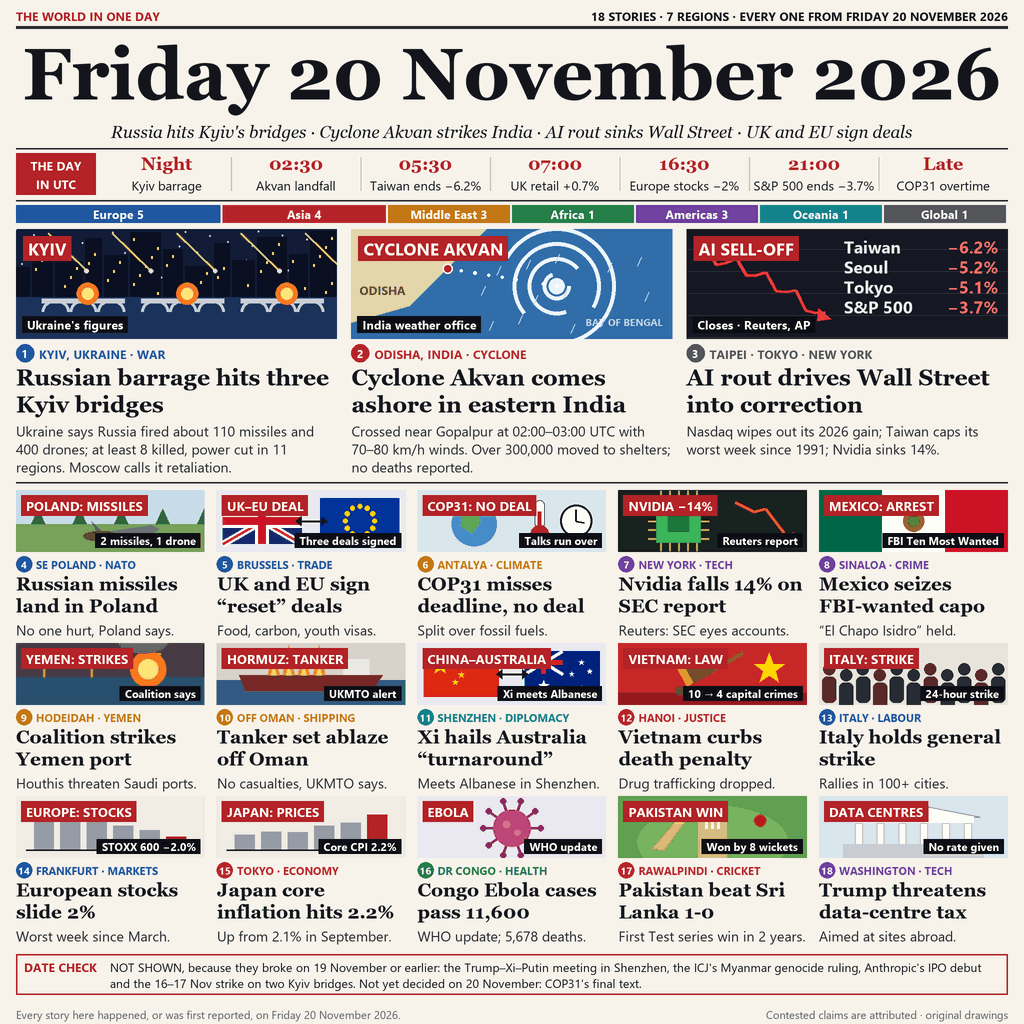
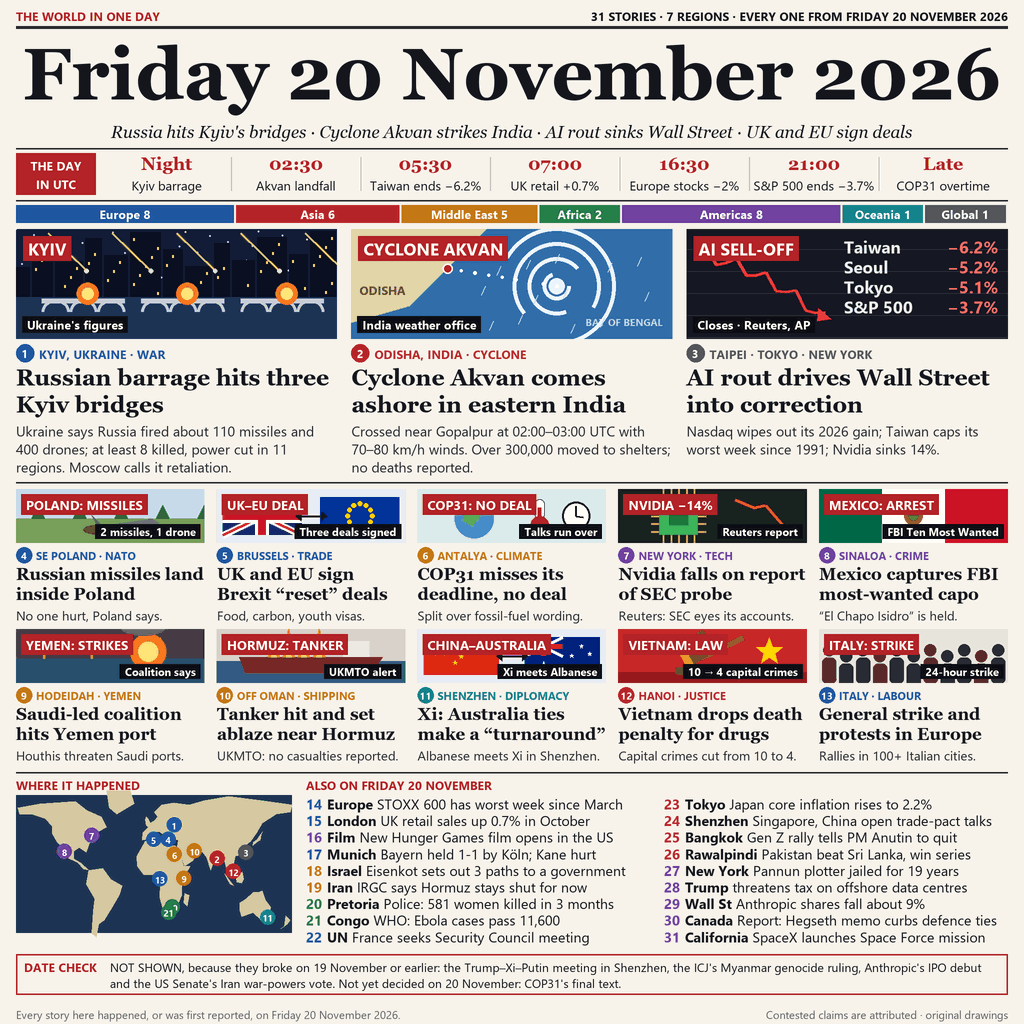
Back to the 31-story grid (scored higher than the big-tile test); date check no longer names an earlier Kyiv strike

diff --git a/art/stories.py b/art/stories.py
@@ -91,8 +91,8 @@ PINS = [
 ]
 
 DATE_CHECK = ("NOT SHOWN, because they broke on 19 November or earlier: the Trump–Xi–Putin meeting in "
-              "Shenzhen, the ICJ's Myanmar genocide ruling, Anthropic's IPO debut and the 16–17 Nov strike "
-              "on two Kyiv bridges. Not yet decided on 20 November: COP31's final text.")
+              "Shenzhen, the ICJ's Myanmar genocide ruling, Anthropic's IPO debut and the US Senate's "
+              "Iran war-powers vote. Not yet decided on 20 November: COP31's final text.")
 
 FOOT_L = "Every story here happened, or was first reported, on Friday 20 November 2026."
 FOOT_R = "Contested claims are attributed · original drawings"
